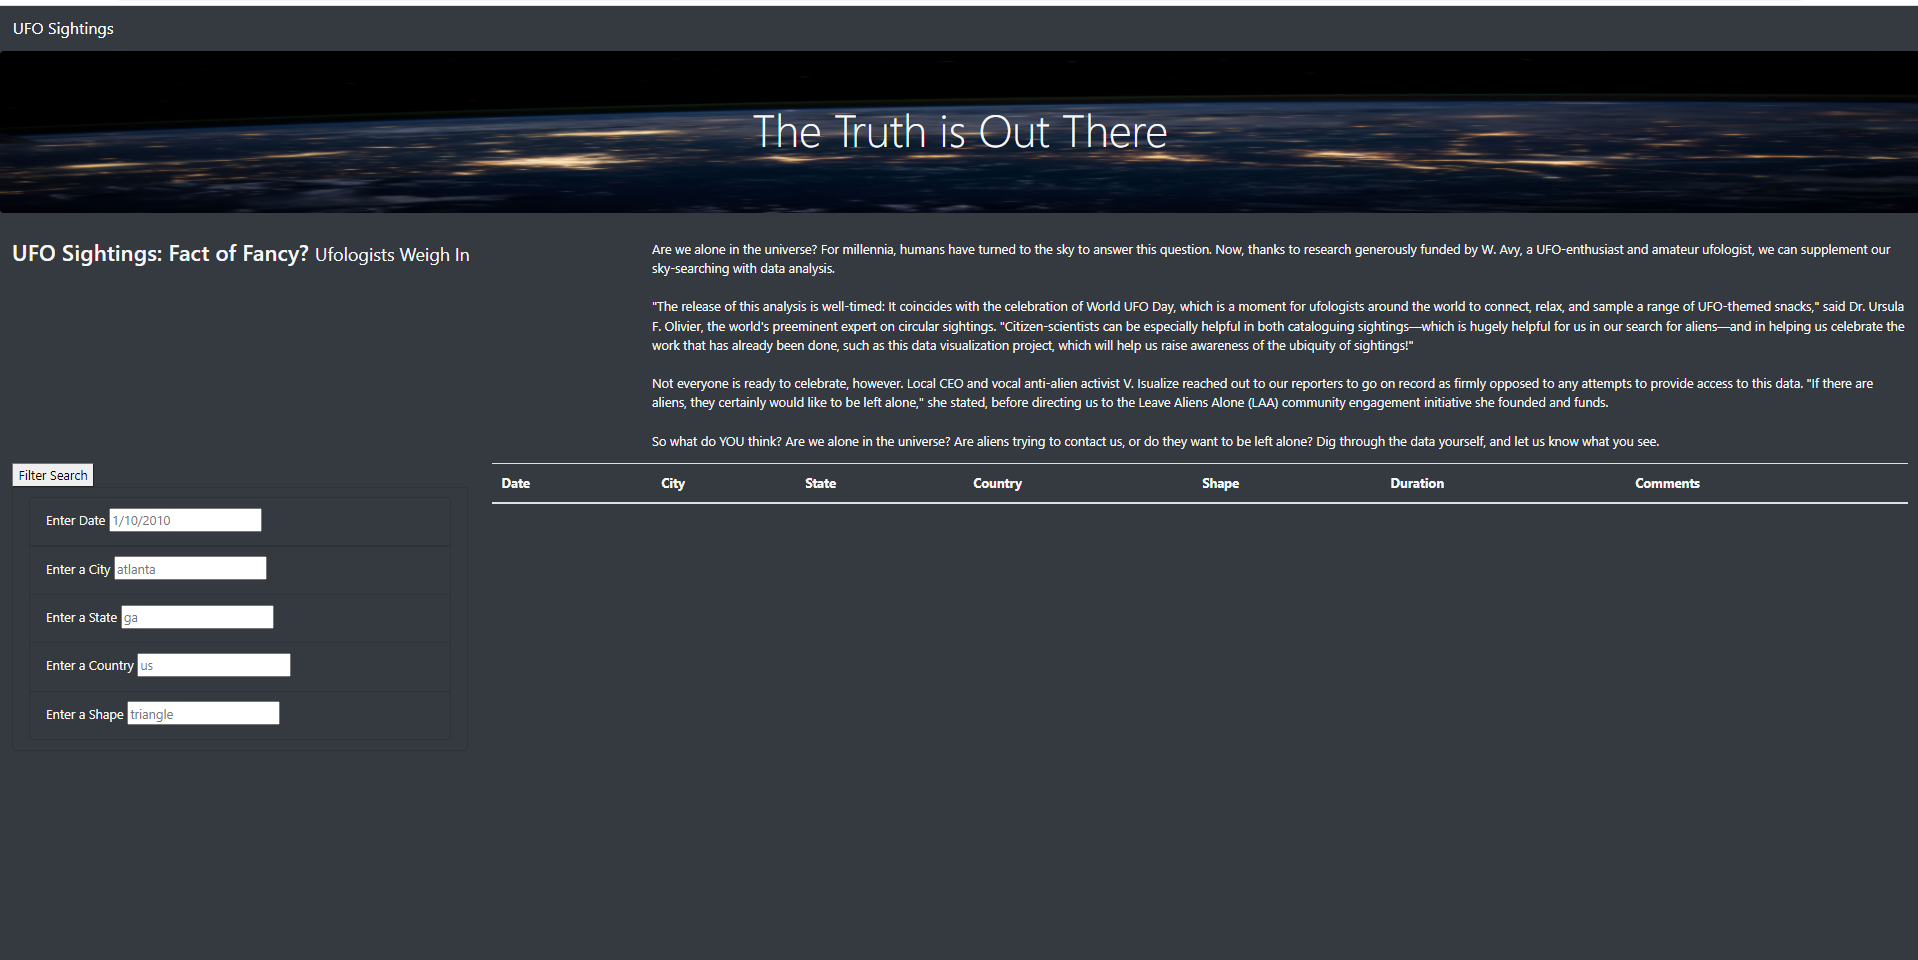
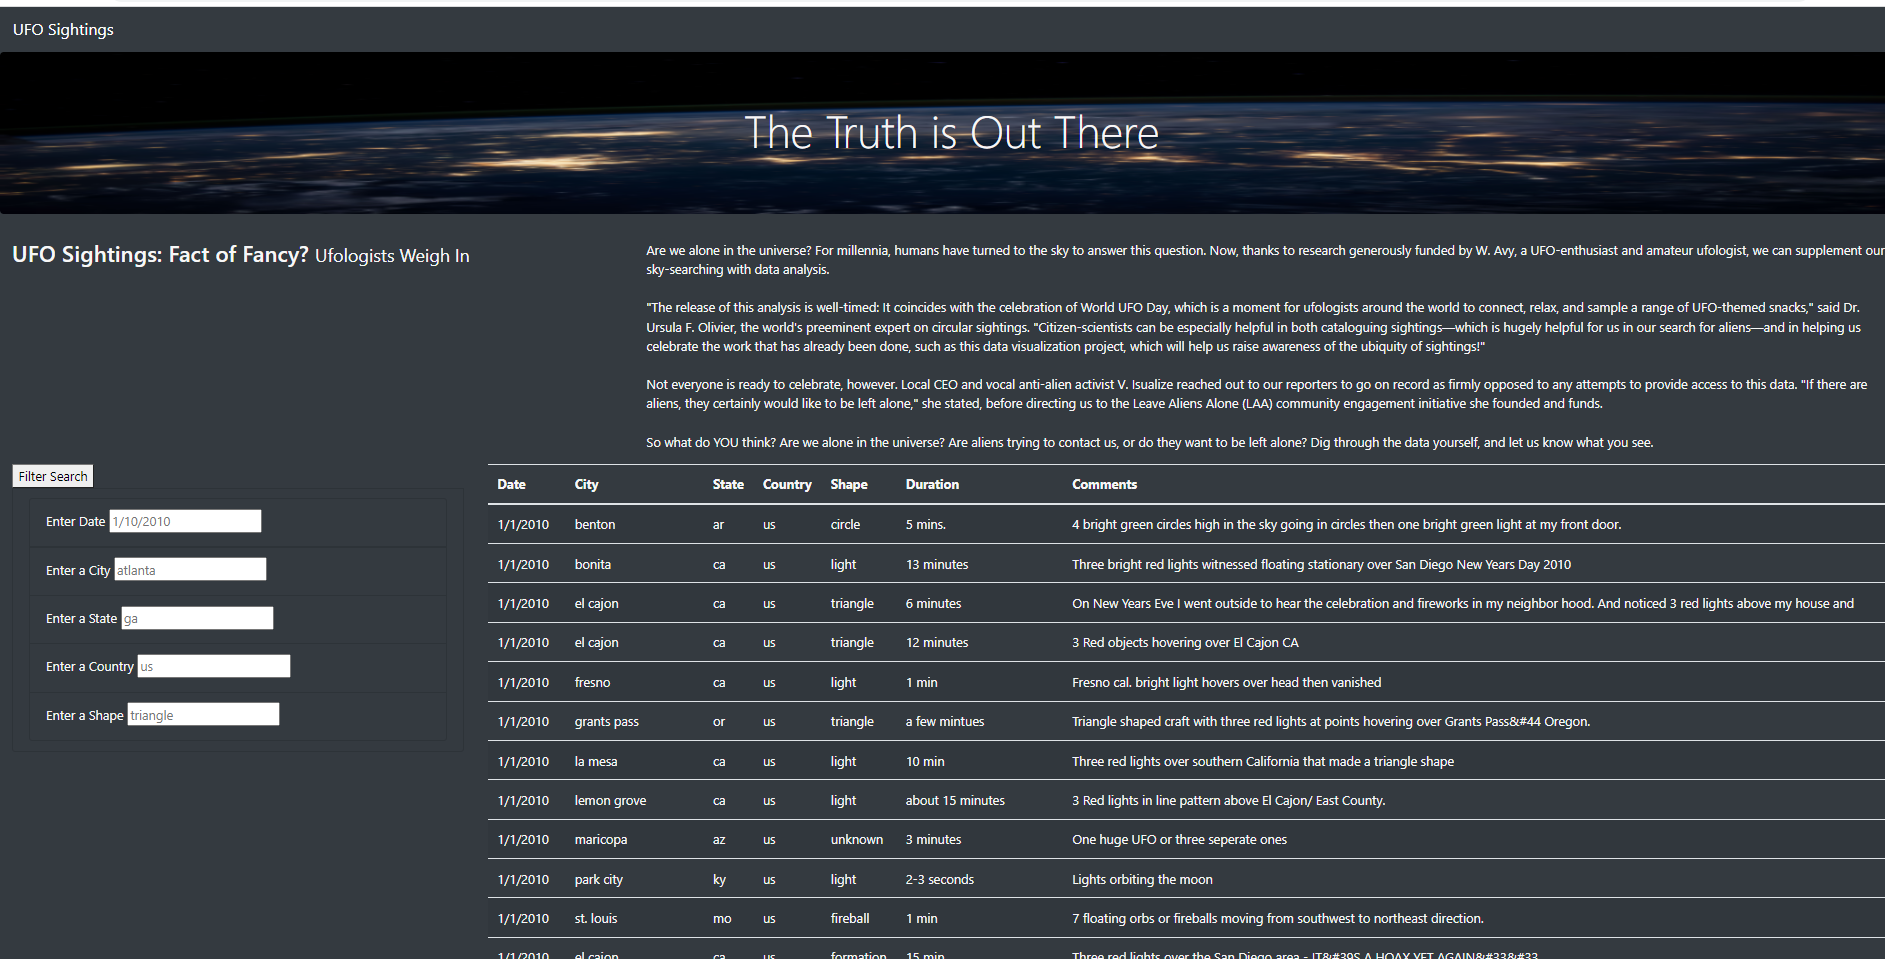
Updated File

diff --git a/index.html b/index.html
@@ -84,6 +84,6 @@
       </div>
       <script src = "https://cdnjs.cloudflare.com/ajax/libs/d3/4.11.0/d3.js"></script>
       <script src = 'static/js/data.js'></script>
-      <script src = "static/js/app1.js"></script>
+      <script src = "static/js/app.js"></script>
   </body>
 </html>
